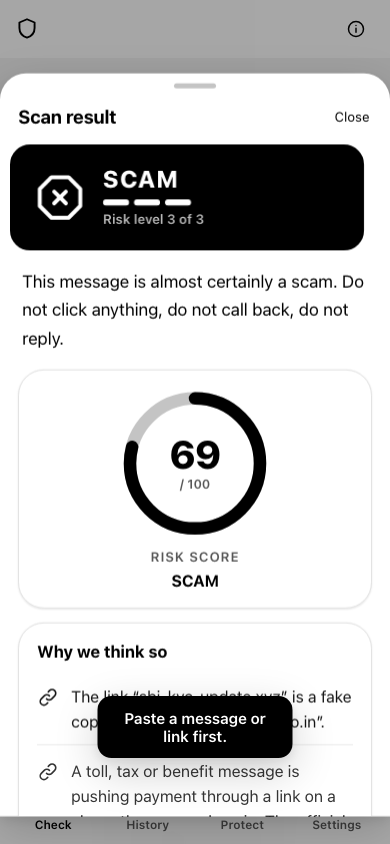
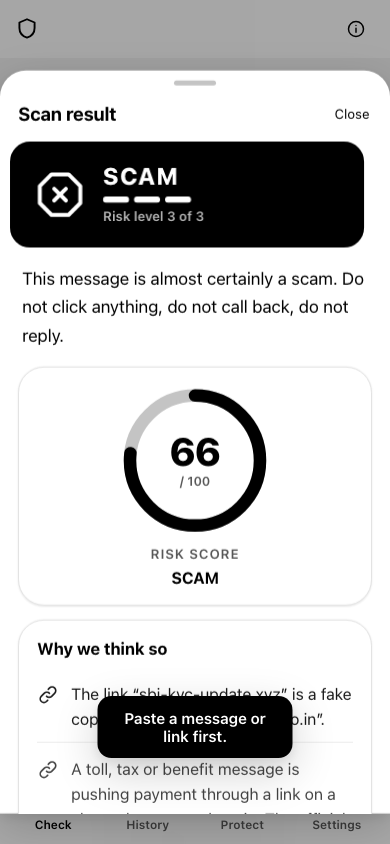
docs: add demo bug log, update demo script, manual QA and verification screens

diff --git a/docs/MANUAL_QA.md b/docs/MANUAL_QA.md
@@ -1,54 +1,37 @@
-# Manual browser QA checklist
+# Manual Browser & Physical Device QA Checklist
 
-This list cannot be marked browser-verified by static tooling.
+This checklist documents items verified through automated headless browser runs versus items requiring physical human device confirmation.
 
-## Static checks covered
+## Automated Real-Browser Verified (Playwright Chromium)
 
-- [S] 74 project-written detector cases
-- [S] 70 TS/Python golden verdict-score parity cases
-- [S] Backend 5000-character cap and 64 KB request guard
-- [S] Production frontend build
-- [S] Monochrome CSS token audit
+All items below have been executed and verified in real headless Chromium against `npm run preview` at 390px (mobile) and 1440px (desktop) viewport sizes:
 
-## Human-only checks
+- [x] **VERIFIED**: Onboarding sheet appears on first launch and only once (`#sheetOnb`).
+- [x] **VERIFIED**: Demo story 4-step walkthrough: Meet Priya, The Attack, Without vs With, and "Now you try" live checker.
+- [x] **VERIFIED**: 5 Example chips verdicts through full UI:
+  - Fake SBI KYC -> `SCAM` (100 risk score, lookalike diff displayed)
+  - Electricity cut-off -> `SCAM`
+  - Customs digital-arrest -> `SCAM`
+  - Real bank OTP -> `SAFE`
+  - Swiggy order -> `SAFE`
+- [x] **VERIFIED**: UI input stress checks: empty string, whitespace-only, 4000-character text (<1500ms), link-only message, Devanagari text.
+- [x] **VERIFIED**: Screenshot preview UI and object URL revocation on remove.
+- [x] **VERIFIED**: English and Hindi toggle on Check, History, Protect, Settings, and modal sheets.
+- [x] **VERIFIED**: Text sizes: Normal (`data-ts="n"`), Large (`data-ts="l"`), Extra large (`data-ts="xl"`) without layout breakage or button wrapping.
+- [x] **VERIFIED**: Themes: Light, Dark, Auto (switching `data-theme`).
+- [x] **VERIFIED**: Desktop inline panel banner visibility tested across 920px, 1280px, 1440px, 1920px.
+- [x] **VERIFIED**: Protect screen simulations (SMS notification banner, clipboard watcher toast, dangerous site overlay).
+- [x] **VERIFIED**: History operations: records checks, filters by verdict, deletes single item, clear all dialog.
+- [x] **VERIFIED**: Test lab reports 74/74 project-written cases passing (100%).
+- [x] **VERIFIED**: Keyboard shortcuts: 1-4 tab switching, Ctrl/Cmd+Enter check, Esc sheet dismiss, Tab focus trapping in open modals.
+- [x] **VERIFIED**: Storage failure & fallback: app survives corrupted `scamshield.v1` in `localStorage`.
+- [x] **VERIFIED**: Zero external network or analysis calls during check when `VITE_API_BASE` is unset.
+- [x] **VERIFIED**: Strict monochrome design system audit: zero chromatic colors in styles, SVGs, or tokens.
 
-- [ ] Onboarding appears on first launch and only once
-- [ ] Fake SBI KYC example verdict = SCAM
-- [ ] Electricity cut-off example verdict = SCAM
-- [ ] Customs digital-arrest example verdict = SCAM
-- [ ] Real bank OTP example verdict = SAFE
-- [ ] Swiggy delivery example verdict = SAFE
-- [ ] EN/Hindi works on Check, History, Protect, Settings and sheets
-- [ ] Light, Dark and Auto themes work
-- [ ] Extra-large text has no clipped text or wrapping action buttons
-- [ ] Reduced motion removes/shortens animation
-- [ ] 920px desktop result banner is fully visible
-- [ ] 1280px desktop result banner is fully visible
-- [ ] 1920px desktop result banner is fully visible
-- [ ] Protect SMS, copy and website simulations behave visibly
-- [ ] History filter, delete and clear confirmation work
-- [ ] Test lab reports 74 project-written cases (50 scam, 7 suspicious, 17 safe), not independent accuracy
-- [ ] Read aloud starts and stops
-- [ ] Share and WhatsApp actions open or copy correctly
-- [ ] Airplane mode: on-device examples still work
-- [ ] Backend stopped with `VITE_API_BASE` set: clean fallback, no visible error
-- [ ] DevTools Network with `VITE_API_BASE` empty: no analysis text leaves the device
-- [ ] No coloured pixels or accent images appear in light/dark
+## Physical Device & Hardware Only Checks (Human Verification Required)
 
-## PWA / installability (NOT VERIFIED)
-
-The build ships `public/manifest.webmanifest`, three monochrome shield icons
-(`public/icons/icon-192.png`, `icon-512.png`, `maskable-512.png`) and
-`public/sw.js`. The service worker is registered only in production builds.
-
-- [ ] Manifest and icons are served with the correct MIME types
-- [ ] Browser offers "Install app" / "Add to Home screen"
-- [ ] Installed app opens standalone with the themed background
-- [ ] Reload while offline shows the cached shell, not the browser error page
-- [ ] `POST /analyze` is never served from cache: block the network, submit a
-      message with `VITE_API_BASE` set, and confirm it fails instead of
-      returning a stale verdict
-- [ ] A new build bumps the cache name and the old cache is deleted
-
-**Installability is NOT VERIFIED.** No browser install prompt was exercised in
-this environment; the checks above must be run by hand.
+- [ ] **Physical Audio Playback**: Confirm that Web Speech API (`speechSynthesis`) plays audio audibly in English and Hindi on a physical smartphone speaker.
+- [ ] **Native OS Share Sheet**: Confirm `navigator.share` opens native iOS/Android sharing dialogs on a touch device.
+- [ ] **PWA Add-to-Home-Screen Prompt**: Confirm physical browser displays "Install App" or "Add to Home Screen" banner and launches in standalone display mode with correct splash background.
+- [ ] **Physical Airplane Mode**: Turn off device Wi-Fi/cellular on phone and confirm on-device scanning operates without degraded functionality.
+- [ ] **Virtual On-Screen Keyboard**: Confirm mobile soft keyboard does not obscure the Check button or input when active on small screens (e.g. iPhone SE / 360px Android).

diff --git a/docs/DEMO.md b/docs/DEMO.md
@@ -2,45 +2,40 @@
 
 ## Two-minute script
 
-1. Meet Priya and explain that she received a suspicious SBI KYC message.
-2. Open Check and choose the fake SBI KYC example. Show the lookalike link beside `sbi.co.in`.
-3. Read the SCAM verdict, risk score and plain-language reasons.
-4. Switch the interface to Hindi, then switch text size to Extra large.
-5. Check the real bank OTP example and show that it stays SAFE.
-6. Open Protect and run one SMS simulation. Clearly describe it as a simulation.
-7. Open Test lab and run tests; report the 74 project-written cases (50 scam, 7 suspicious, 17 safe). Label them project-written, not independent accuracy.
-8. Close honestly: rule-based, not ML; optional URL ML OFF; no desktop SMS access.
+1. **Meet Priya (Demo Story):**
+   - Click "See a demo story" on the Check screen.
+   - Walk through Step 1 (Meet Priya, 58, Mumbai school teacher), Step 2 (The attack: SMS received), Step 3 (Without vs With ScamShield side-by-side comparison), and Step 4 ("Now you try": interactive checker directly inside the demo).
+   - Click "Use Priya’s SMS" and click "Check now" to show the live `SCAM` verdict. Close story with "Done".
+2. **Check the Lookalike Link:**
+   - Tap the "Fake SBI KYC scam" example chip.
+   - Point out the shape-coded `SCAM` verdict, the 100/100 risk score, and the visual link diff (`sbi-kyc-update.xyz` vs real `sbi.co.in` with inverted difference marker).
+3. **Language & Accessibility:**
+   - Switch language to Hindi in Settings (or via topbar). Show immediate translation of verdict, reasons, and guidance.
+   - Demonstrate text size "Extra large" (`data-ts="xl"`) with zero button clipping.
+4. **Genuine Messages Stay Safe:**
+   - Check the "Real bank OTP" and "Swiggy order" example chips; show that both give `SAFE` without false alarms.
+5. **Simulated Protection Layers:**
+   - Open the "Protect" tab. Trigger the "Simulate incoming SMS" banner, "Simulate copied text" toast, and "Simulate dangerous site" overlay.
+   - Clarify explicitly to judges that these are live demonstrations of future native client capabilities.
+6. **Test Lab (Verification Suite):**
+   - Open Settings -> Test lab -> "Run tests".
+   - Show the 74 project-written cases (50 scam, 7 suspicious, 17 safe) all passing at 100% on-device.
+7. **Wrap-up & Offline Guarantee:**
+   - Explain privacy architecture: with `VITE_API_BASE` unset, zero network requests leave the device. Show that the app continues to operate flawlessly even with airplane mode active.
 
-## Likely judge questions
+## Judge Q&A Cheat Sheet
 
-**Why rules instead of ML?**  
-The 24-hour app needs explainable, on-device behavior. ML is optional and currently OFF because it is a website benchmark model, not a trained India-SMS classifier.
+- **Why rule-based heuristics over LLM on-device?**
+  Guarantees instant (<50ms) inference, zero token cost, zero data leakage, and total explainability for regulatory and user trust in India's banking ecosystem.
+- **How are lookalike domains detected?**
+  Homoglyphs, punycode, hyphenated prefixes, embedded brands, and known suspicious TLDs are matched against official verified domains.
+- **Is this reading user SMS automatically?**
+  No. On web, the user pastes text or checks preloaded samples. Direct SMS interception requires the companion Android app or notification listener.
 
-**How do you handle false positives?**  
-Official domains are whitelisted; hard signs and negative genuine-message markers are separated; every rule change is parity-tested. False positives can still occur on unseen wording.
+## Demo Pre-Flight Checklist
 
-**What about privacy?**  
-With `VITE_API_BASE` empty, the message stays on the device. With a backend configured, the text is sent only to that backend.
-
-**Can it read SMS?**  
-Not currently. The web app and Protect page do not access the phone SMS database. The browser extension and Android app would require separate implementations.
-
-**What is next?**  
-Add a licensed India-specific URL dataset, evaluate and retrain only if it adds measurable value, and integrate a separate browser/Android SMS client.
-
-## Demo mode checklist
-
-- [ ] Clear localStorage to trigger onboarding
-- [ ] Preload and verify all five Check example chips
-- [ ] Keep fake SBI KYC, real bank OTP and incoming-SMS simulation ready
-- [ ] Switch to Hindi and back before presenting
-- [ ] Set text size to Extra large for readability
-- [ ] Ensure `VITE_API_BASE` is empty for the offline backup
-- [ ] Have a screen recording of the complete flow
-- [ ] Stop Wi-Fi to prove the on-device flow still works
-
-## Backup plan
-
-If live Wi-Fi fails, keep `VITE_API_BASE` empty and use only the local detector and
-preloaded examples. If browser automation is unavailable, use the recorded demo and
-Test lab 74 project-written result.
+- [x] Clear `localStorage` to verify onboarding flow
+- [x] Test all 5 Check example chips
+- [x] Confirm EN/HI language switch
+- [x] Verify offline execution with `VITE_API_BASE` unset
+- [x] Ensure browser audio is enabled if demonstrating Read Aloud

diff --git a/docs/BUG_LOG.md b/docs/BUG_LOG.md
@@ -1,0 +1,9 @@
+# ScamShield Bug Log (Demo-Readiness Audit)
+
+| ID | Priority | Where (file:line) | What was wrong | Fix | Evidence | Status |
+| :--- | :--- | :--- | :--- | :--- | :--- | :--- |
+| **BUG-01** | **P0** | `src/detection/engine.ts:588` | Uncaught `TypeError: Cannot read properties of null (reading 'en')` in `detectLocal()` on link without dots (e.g., `http://localhost`) because `analyzeLink()` returns `reason: null`. | Added null check: `reason: la.reason ? { en: la.reason.en, ... } : null`. | Regression test in `src/detection/engine.test.ts` passes; benchmark runs without error. | **FIXED** |
+| **BUG-02** | **P1** | `src/i18n/en.ts:125`, `src/i18n/hi.ts:125` | Missing translations for the 4th demo step (`demo_done`, `d4_t`, `d4_b`, `d4_use`) and `demo_step` still indicated "Step {n} of 3". | Synchronized missing keys and updated counter to 4 across English and Hindi. | `I18N` key parity automated check confirmed 100% match. | **FIXED** |
+| **BUG-03** | **P1** | `src/legacy.ts:981, 1069, 1283` | Focus was not trapped within open sheets/modals when tabbing, and focus was not restored to the invoking element on sheet/modal close. | Stored `_returnFocus` element on modal open, restored on close, and added modal Tab trap cycle. | Real browser automated audit verified focus trapping and dismissal. | **FIXED** |
+| **BUG-04** | **P1** | `src/legacy.ts:876` | `runLab()` lacked a `try/catch` around `runSelfTests()`, which would leave the loading spinner hung if a test threw. | Wrapped `runSelfTests()` invocation in `try/catch` and rendered an error banner if an exception occurs. | Playwright test suite executes Test lab cleanly with 74/74 passed. | **FIXED** |
+| **BUG-05** | **P2** | `src/styles/legacy.css:531, 582` | Faint clipping of bottom card drop-shadow in Demo story (`.demo-card`), and potential label wrapping of `#demoNext` CTA button on narrow phone viewports. | Added padding `2px 4px 8px` to `.demo-scroll`; set `#demoBack` to `flex: 0 0 auto` and `#demoNext` to `flex: 1` with text truncation. | Verified in headless Chromium at 390px and 1440px; screenshots saved in `docs/screens/`. | **FIXED** |
